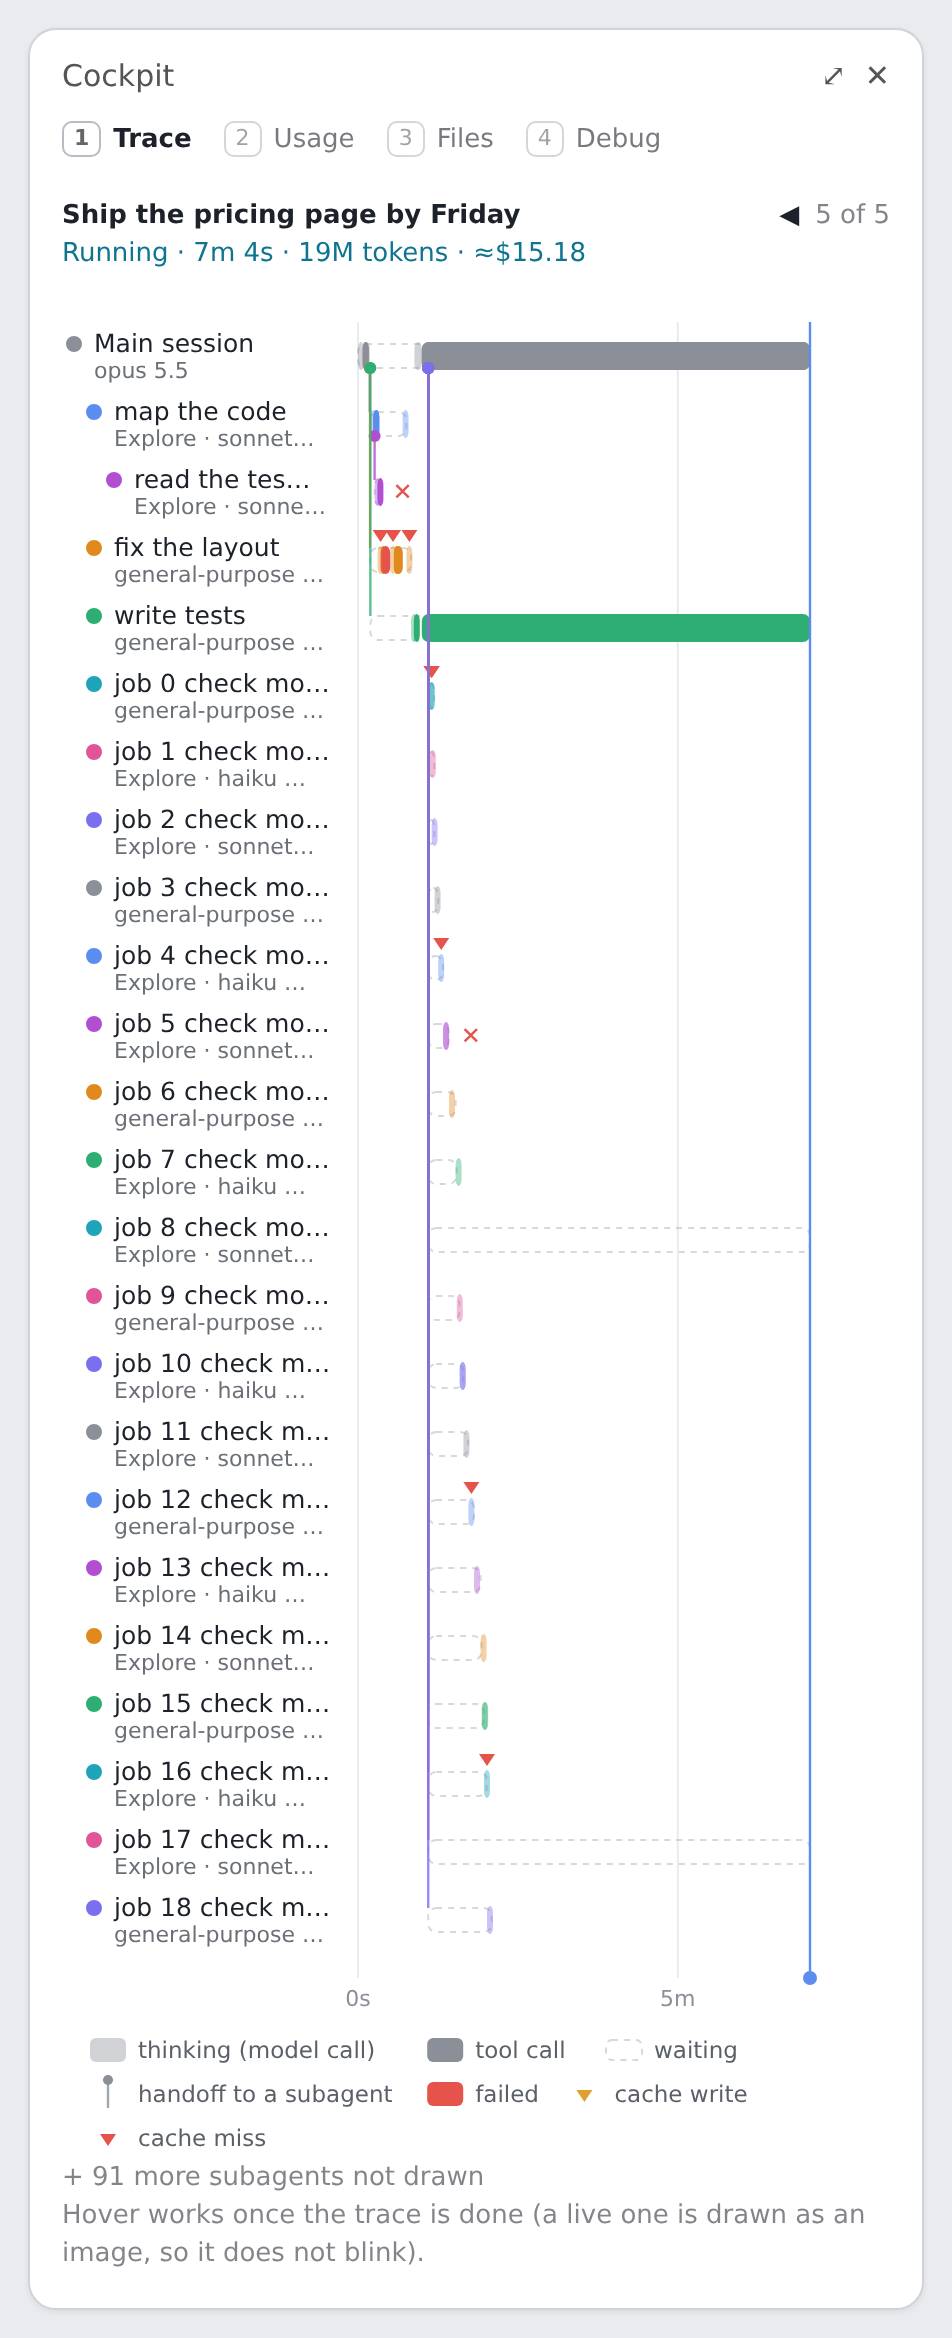
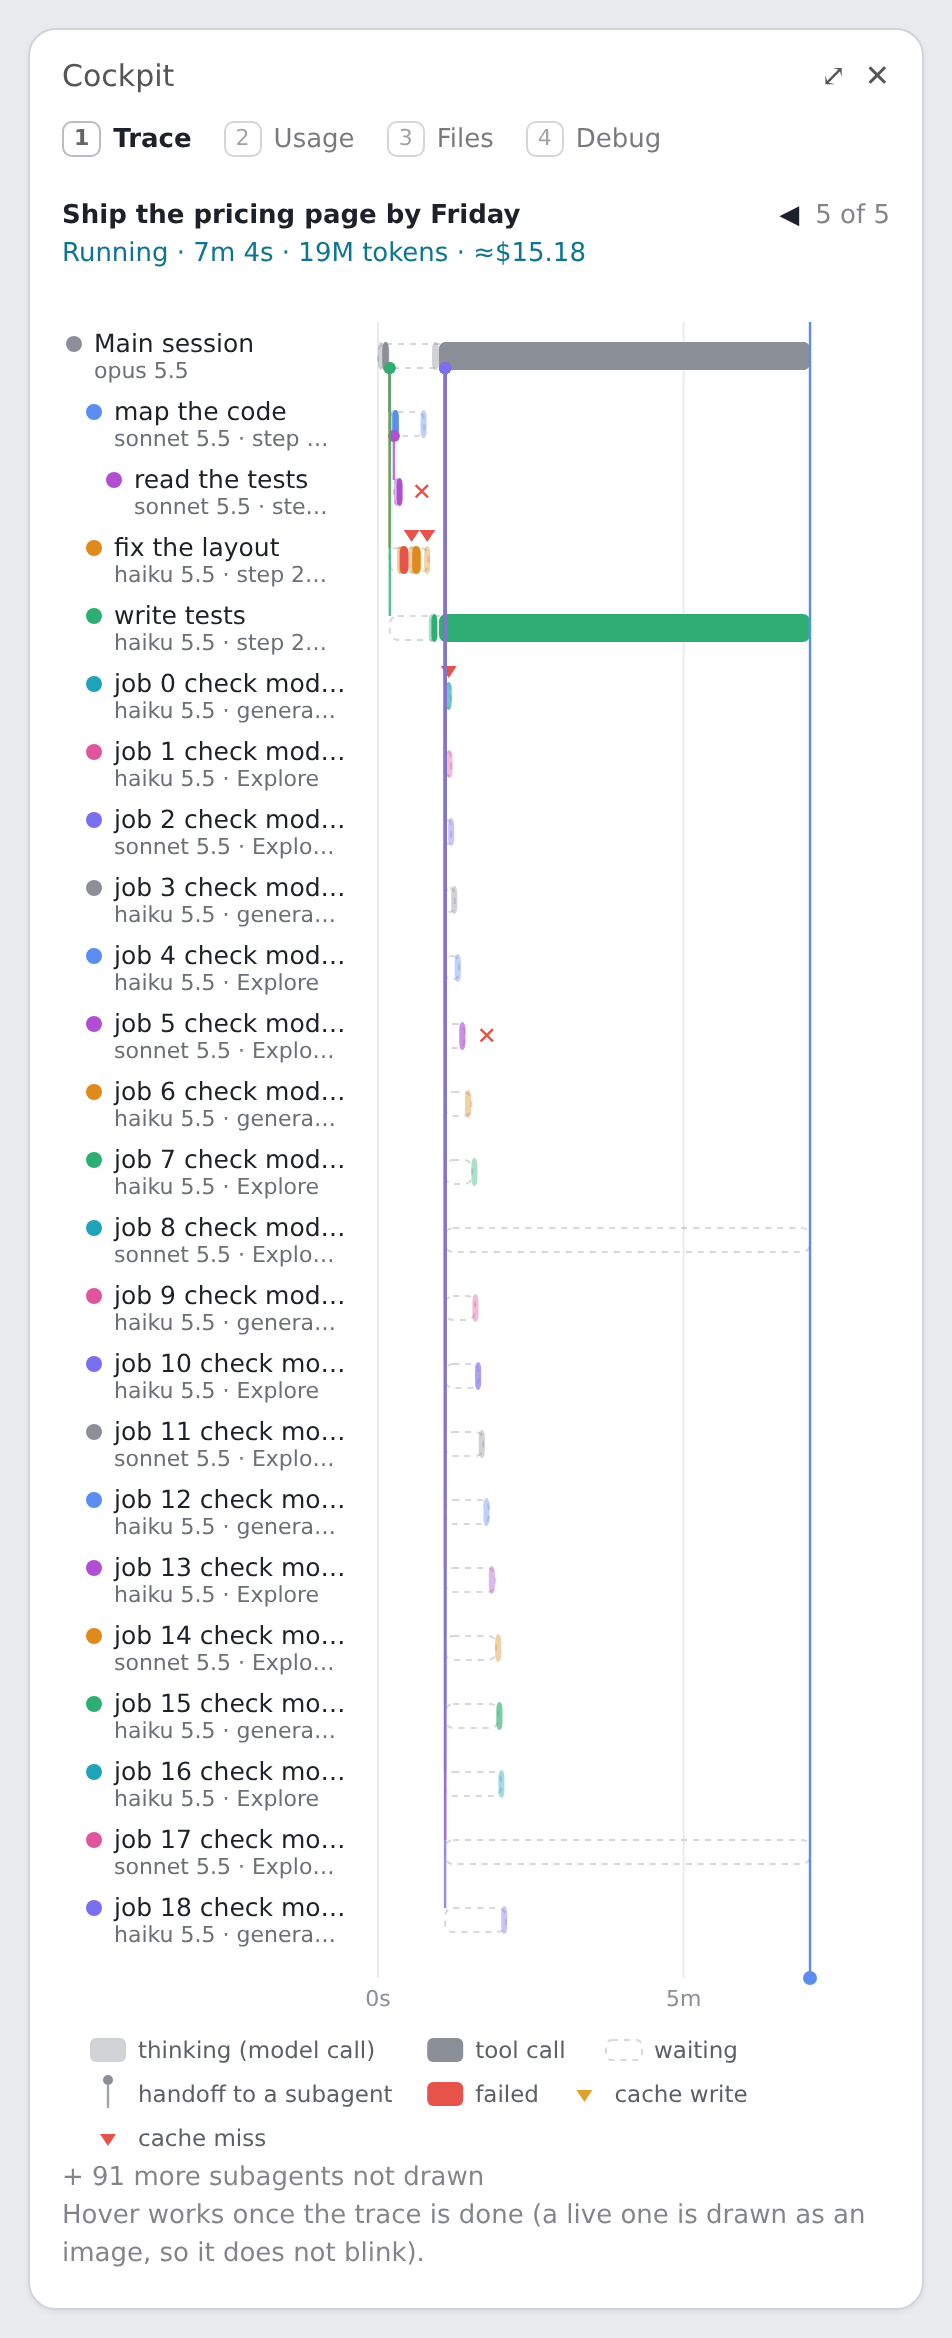
cockpit 0.17.3: no cache-miss mark on a lane's cold first call, wider lane names with the model first

diff --git a/lib/lanes.js b/lib/lanes.js
@@ -33,9 +33,11 @@ function block(S, sp, now, money, idle, ttl) {
     // The cache: a miss rewrote the whole prompt (nothing read), a write added a lot to it; idle past the lifetime means it had expired.
     const read = sp.cr || 0
     const wrote = sp.cw || 0
-    const cache = sp.tok === undefined ? null : read === 0 && wrote > 0 ? 'miss' : wrote > read * 0.25 && wrote > 2000 ? 'write' : 'hit'
+    // A lane's first call always starts cold (a new subagent has no cache yet): that is not worth a mark.
+    const first = idle === null
+    const cache = sp.tok === undefined ? null : read === 0 && wrote > 0 ? (first ? 'cold' : 'miss') : wrote > read * 0.25 && wrote > 2000 && !first ? 'write' : 'hit'
     const expired = idle !== null && idle > ttl
-    const words = cache === null ? '' : cache === 'miss' ? 'cache miss: wrote ' + tok(wrote) + (expired ? ' (expired after ' + fmtDur(idle) + ' idle)' : '') : cache === 'write' ? 'cache write: ' + tok(wrote) + ', read ' + tok(read) : 'cache hit: read ' + tok(read)
+    const words = cache === null ? '' : cache === 'cold' ? 'cold start: wrote ' + tok(wrote) + ' to the cache' : cache === 'miss' ? 'cache miss: wrote ' + tok(wrote) + (expired ? ' (expired after ' + fmtDur(idle) + ' idle)' : '') : cache === 'write' ? 'cache write: ' + tok(wrote) + ', read ' + tok(read) : 'cache hit: read ' + tok(read)
     const tip = ['Thinking', [shortModel(sp.m), sp.ef].filter(Boolean).join(' '), dur, sp.tok ? tok(sp.tok) + ' tokens' : '', money(sp.cost), words].filter(Boolean).join(' · ')
     return { t0: sp.t0, t1, kind: sp.st === 'err' ? 'err' : 'think', tip, cache }
   }
@@ -85,7 +87,7 @@ export function lanesOf(S, rootId, now) {
     lanes.push({
       id: sp.id,
       name: isMain ? 'Main session' : sp.n || 'subagent',
-      sub: isMain ? shortModel(mainModel) : [sp.d, shortModel(sp.m), step].filter(Boolean).join(' · '),
+      sub: isMain ? shortModel(mainModel) : [shortModel(sp.m), step, sp.d].filter(Boolean).join(' · '),
       color: c[0],
       term: c[1],
       depth,
@@ -112,7 +114,7 @@ const esc = (s) => String(s).replace(/&/g, '&amp;').replace(/</g, '&lt;').replac
 
 // Desktop: the lanes as one interactive SVG. Hover a block for its tooltip; a lane's dot and connector show the handoff.
 export function lanesSvg(m, W, now) {
-  const NAME = Math.min(220, Math.max(140, Math.round(W * 0.26)))
+  const NAME = Math.min(340, Math.max(150, Math.round(W * 0.33)))
   const LANE = 34
   const TOP = 6
   const x0 = NAME + 8

diff --git a/tests/cockpit.test.ts b/tests/cockpit.test.ts
@@ -200,7 +200,7 @@ test('subagents get a lane under the loop that spawned them, with their step pro
     expect(await seen(band, surface, /1 agent/)).toBeDefined()
     await band.unmount()
     const ui = await $.ui.mount({ ...PANE, surface } as any)
-    if (surface === 'desktop') expect((await ui.find({ type: 'Svg' })).props.alt).toMatch(/lead task \(Explore.*step 2\/5\), child task/)
+    if (surface === 'desktop') expect((await ui.find({ type: 'Svg' })).props.alt).toMatch(/lead task \(haiku · step 2\/5 · Explore\), child task/)
     else expect(await ui.find({ type: 'Text', text: /^ {4}child task$/ })).toBeDefined() // two levels in: under lead task
     await ui.unmount()
   }
@@ -400,7 +400,7 @@ test('the Trace tab draws one lane per loop on both surfaces, with tooltips on D
   expect(await d.find({ type: 'Text', text: /Running · .* tokens/ })).toBeDefined()
   const svg = await d.find({ type: 'Svg' })
   expect(svg.props.isInteractive).toBe(false) // live: an image, so updates do not blink
-  expect(svg.props.alt).toMatch(/Main session .*read the tests \(Explore/)
+  expect(svg.props.alt).toMatch(/Main session .*read the tests \(haiku · Explore/)
   expect(svg.props.source).toContain('Bash: pnpm test checkout')
   expect(svg.props.source).toContain('failed: 2 of 14 checkout tests fail')
   expect(svg.props.source).toContain('Grep: coupon')
